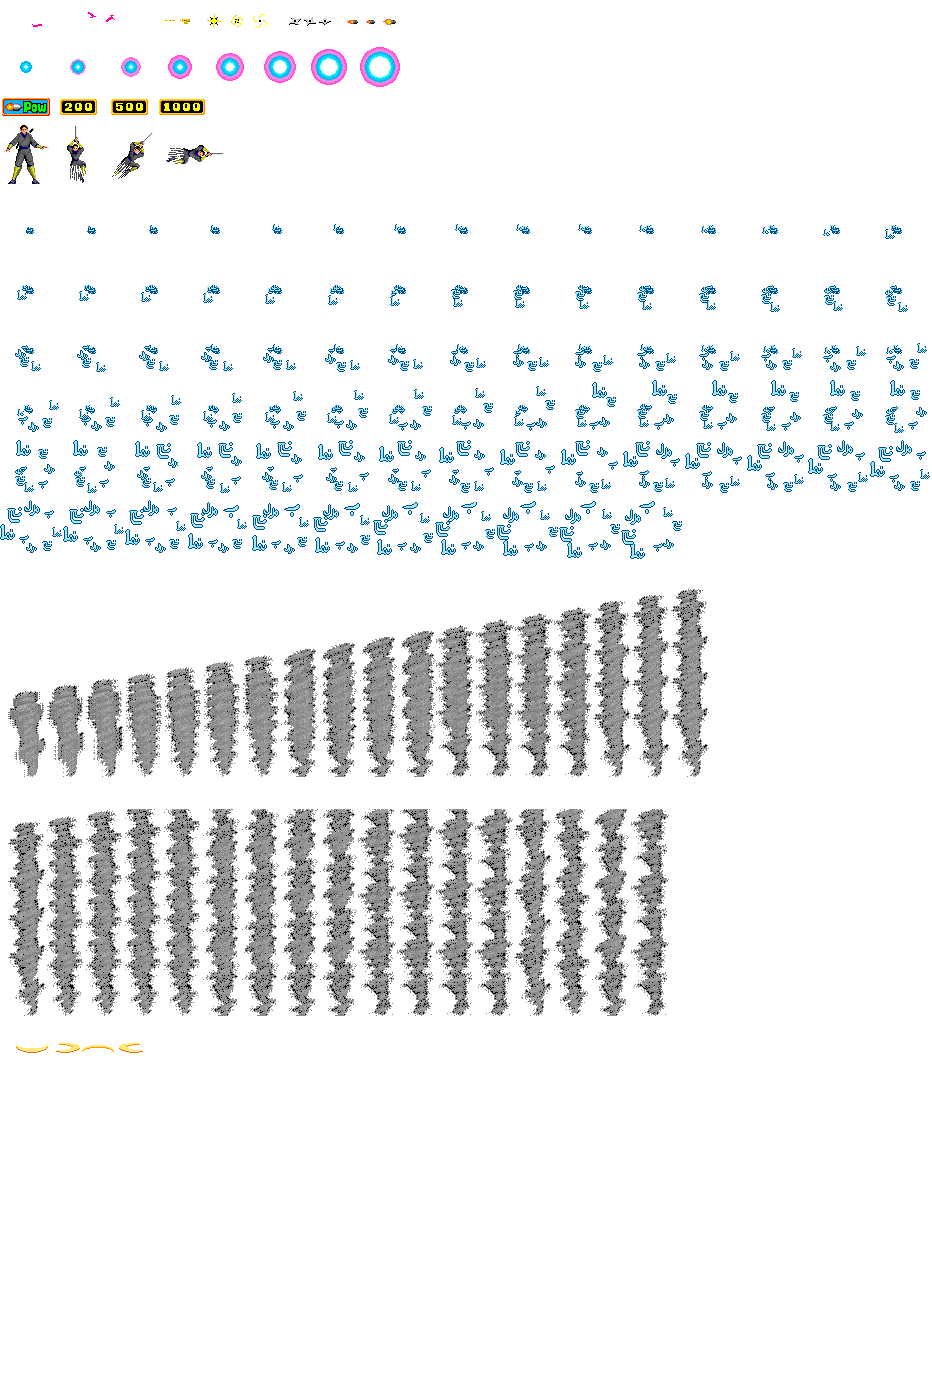
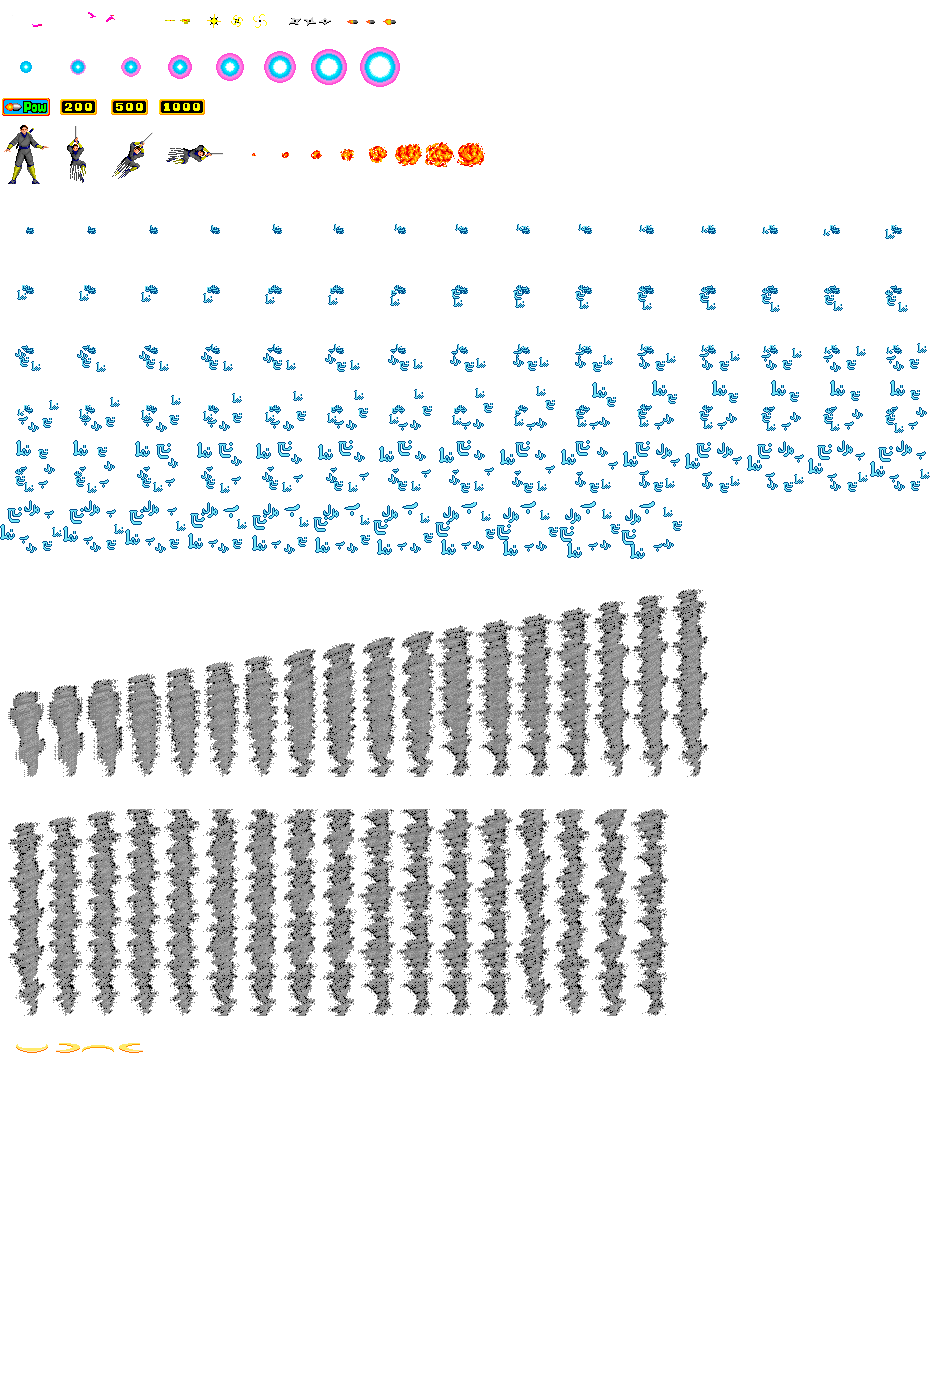
boss particle

diff --git a/Shinobi/Shinobi/Source/Enemy_Boss.cpp b/Shinobi/Shinobi/Source/Enemy_Boss.cpp
@@ -53,20 +53,23 @@ void Enemy_Boss::Update()
 	currentAnim->Update();
 	currentHeadAnim->Update();
 	currentLegsAnim->Update();
-	if (count < 1)
+	for (int i = 7; i >= 0; i--)
 	{
-		App->particles->AddParticle(App->particles->enemyshot, position.x, position.y, Collider::Type::ENEMY_SHOT);
-		particle1 = currentParticle;
-		count++;
+		if (count < 1)
+		{
+			App->particles->AddParticle(App->particles->fireBoss[i], position.x-50+(i*5), position.y, Collider::Type::ENEMY_SHOT);
+			particle1[i] = currentParticle;
+		}
+		if (i == 0) count++;
 	}
-	if (count == 1)
+	
+	for (int i = 0; i <= 7; i++)
 	{
-		App->particles->AddParticle(App->particles->enemyshot, position.x-20, position.y, Collider::Type::ENEMY_SHOT);
-		particle2 = currentParticle;
-		count++;
+		App->particles->particles[particle1[i]]->position.x--;
 	}
-	App->particles->particles[particle1]->position.x--;
-	App->particles->particles[particle2]->position.y--;
+	//App->particles->particles[particle2]->position.y--;
+	
+
 	// Call to the base class. It must be called at the end
 	// It will update the collider depending on the position
 	Enemy::Update();

diff --git a/Shinobi/Shinobi/Source/ModuleParticles.cpp b/Shinobi/Shinobi/Source/ModuleParticles.cpp
@@ -220,6 +220,15 @@ bool ModuleParticles::Start()
 	ultiWind.lifetime = 80;
 	ultiWind.anim.speed = 0.1f;
 
+	for (int i = 0; i <= 7; i++)
+	{
+		fireBoss[i].anim.PushBack({ 455 - i*31, 141, 32, 27 });
+		fireBoss[i].fliph = false;
+		fireBoss[i].anim.loop = true;
+	/*	fireBoss[i].lifetime = 80;*/
+		fireBoss[i].anim.speed = 0.1f;
+	}
+
 
 	return true;
 }

diff --git a/Shinobi/Shinobi/Source/Enemy_Boss.h b/Shinobi/Shinobi/Source/Enemy_Boss.h
@@ -46,7 +46,7 @@ private:
 	bool shooting = false, reloading = false, walking = true;
 	int time = 0;
 
-	int particle1;
+	int particle1[8];
 	int particle2;
 	int count = 0;
 };

diff --git a/Shinobi/Shinobi/Source/ModuleParticles.h b/Shinobi/Shinobi/Source/ModuleParticles.h
@@ -81,6 +81,7 @@ public:
 			ultiDownLeft2,
 			ultiDownRight2;
 	Particle ultiWind;
+	Particle fireBoss[8];
 
 
 };
